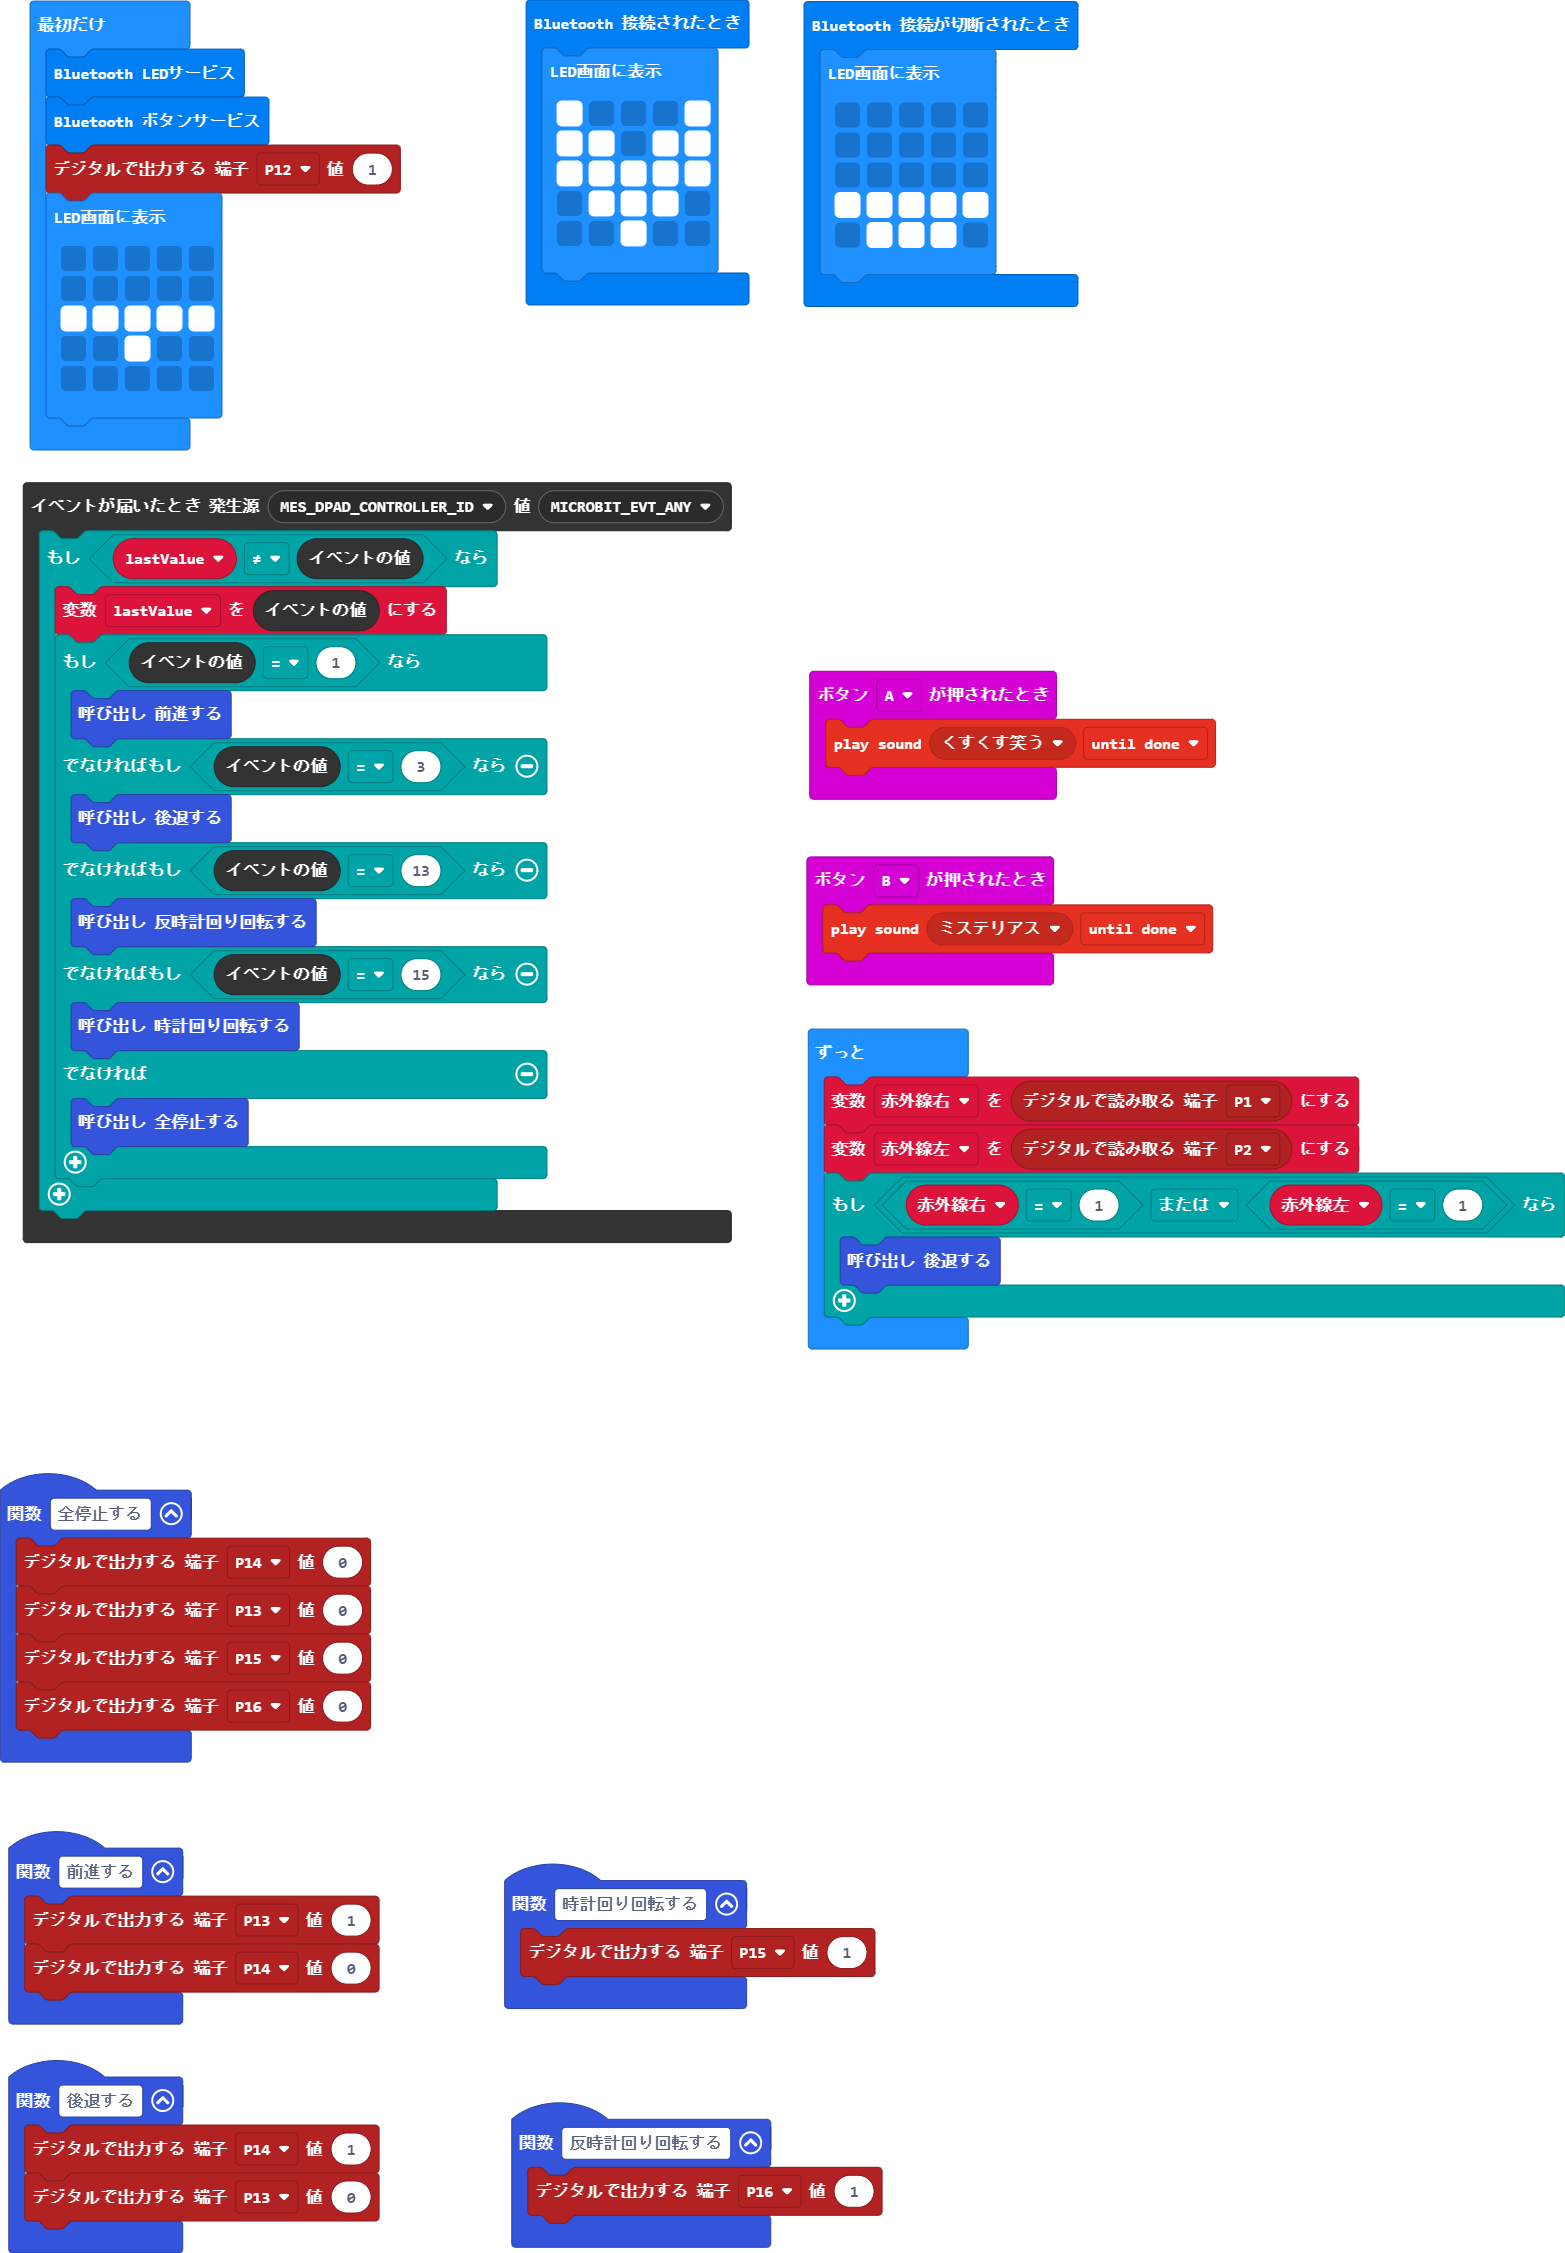
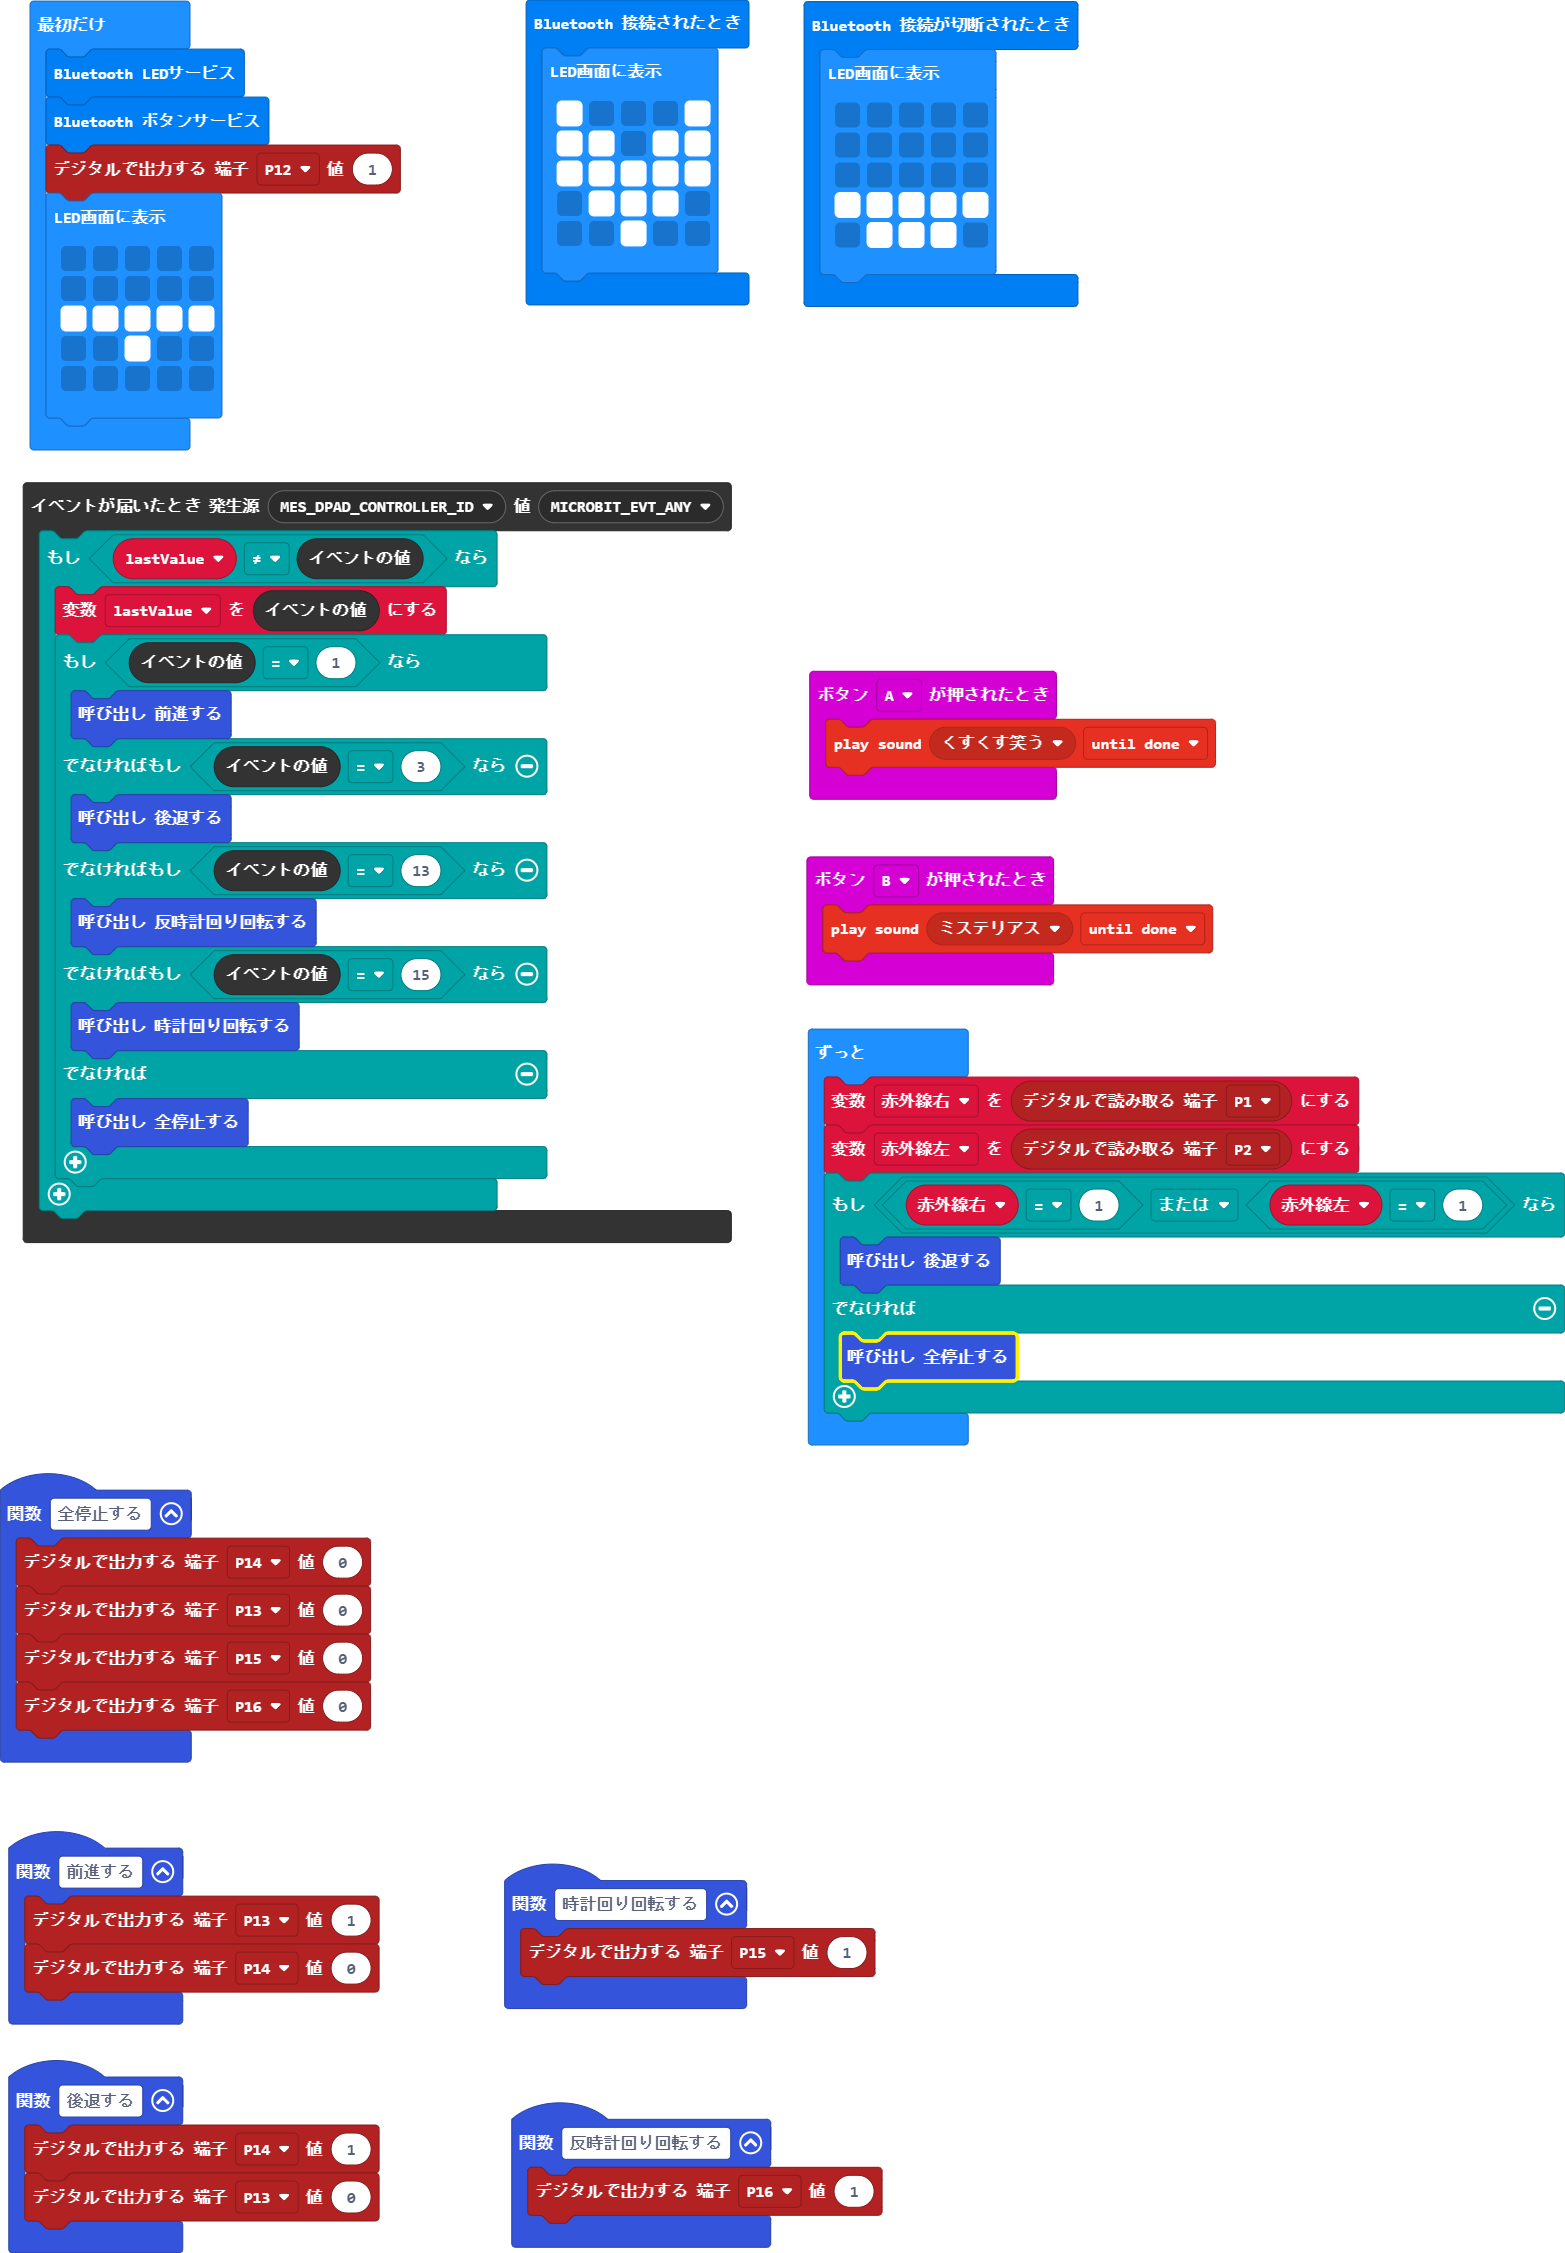
赤外線センサ反応外のとき停止させる処理を加える

Changed region(s): [[0.4907, 0.5593, 1.0, 0.6525]]

diff --git a/main.ts b/main.ts
@@ -76,5 +76,7 @@ basic.forever(function () {
     赤外線左 = pins.digitalReadPin(DigitalPin.P2)
     if (赤外線右 == 1 || 赤外線左 == 1) {
         後退する()
+    } else {
+        全停止する()
     }
 })
